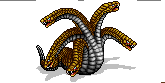
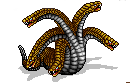
Posiedon

diff --git a/src/engine/Cerb.cpp b/src/engine/Cerb.cpp
@@ -200,16 +200,16 @@ void Cerb::shoot(SDL_Point charLoc, SDL_Point globalPos){
   //cout << "Cerb Angle: " << angle << endl;
   int diffX = globalPos.x - charLoc.x;
   int diffY = globalPos.y - charLoc.y;
-  if(globalPos.x < charLoc.x && abs(diffX) > 10){
+  if(globalPos.x < charLoc.x && abs(diffX) > 30){
     projX = projectileSpeed;
   }
-  else if(globalPos.x > charLoc.x && abs(diffX) > 10){
+  else if(globalPos.x > charLoc.x && abs(diffX) > 30){
     projX = -projectileSpeed;//*xRate;
   }
-  if(globalPos.y < charLoc.y && abs(diffY) > 10){
+  if(globalPos.y < charLoc.y && abs(diffY) > 30){
     projY = projectileSpeed;
   }
-  else if(globalPos.y > charLoc.y && abs(diffY) > 10){
+  else if(globalPos.y > charLoc.y && abs(diffY) > 30){
     projY = -projectileSpeed;
   }
 

diff --git a/src/engine/Dungeon.cpp b/src/engine/Dungeon.cpp
@@ -288,11 +288,17 @@ void Dungeon::generate() {
 							c->loadTexture("resources/enemies/scylla.png");
 							c->scaleX *= 0.35;
 							c->scaleY *= 0.35;
+							c->health += 5000;
 						}
 						else if (dungeonType == 2){
 							c->loadTexture("resources/enemies/hydra.png");
-							c->scaleX *= 1.1;
-							c->scaleY *= 1.1;
+							c->scaleX *= 1.2;
+							c->scaleY *= 1.2;
+							c->health += 10000;
+						}
+						else if (dungeonType == 3){
+							c->loadTexture("resources/enemies/Pose.png");
+							c->health += 20000;
 						}
 						c->moveTo(512, 384);
 						temp->room->addChild(c);
